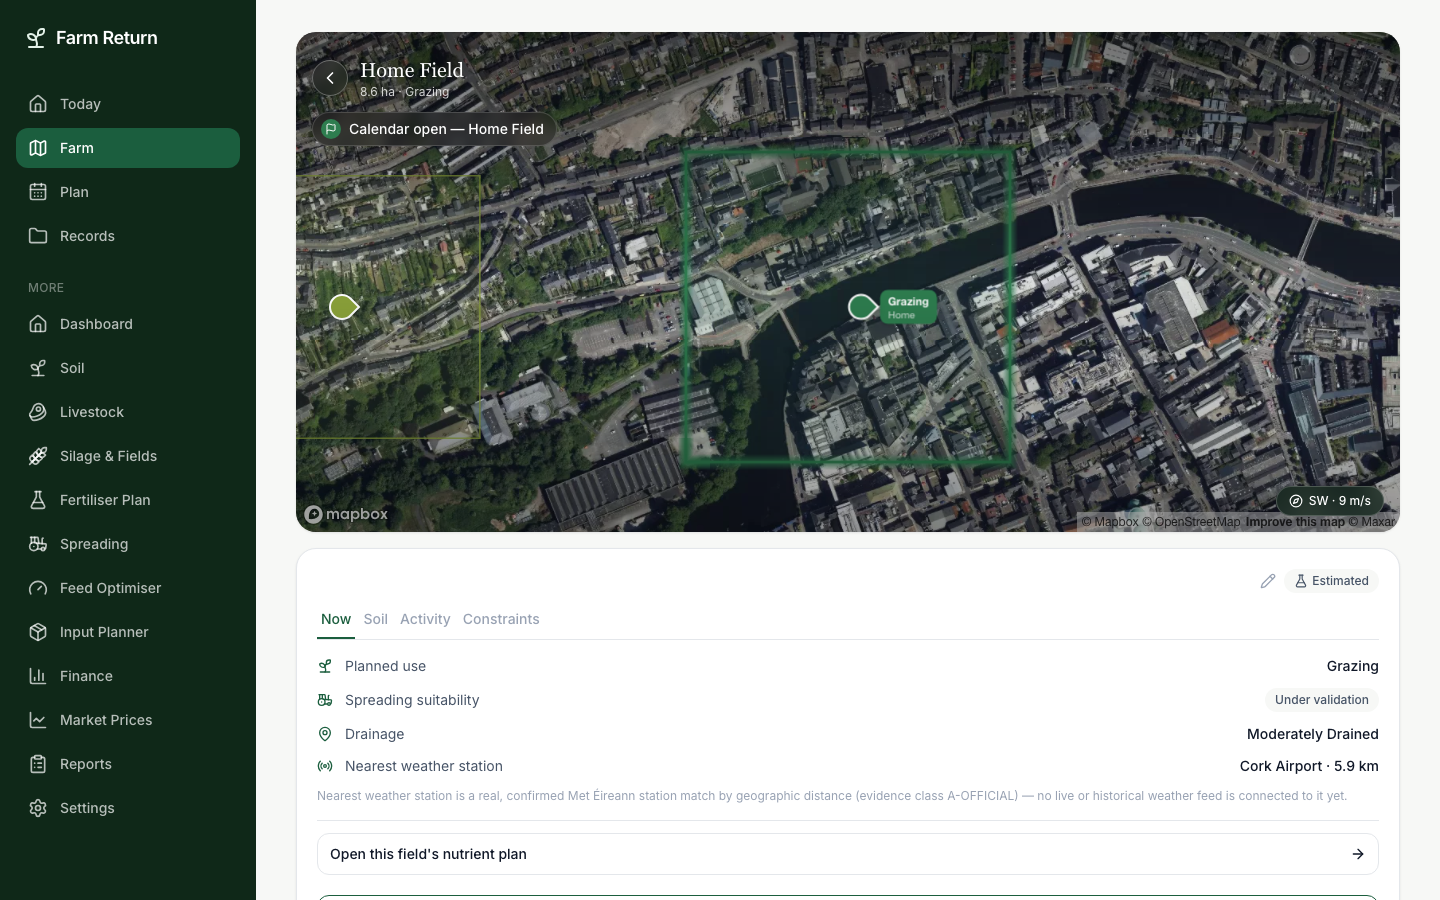
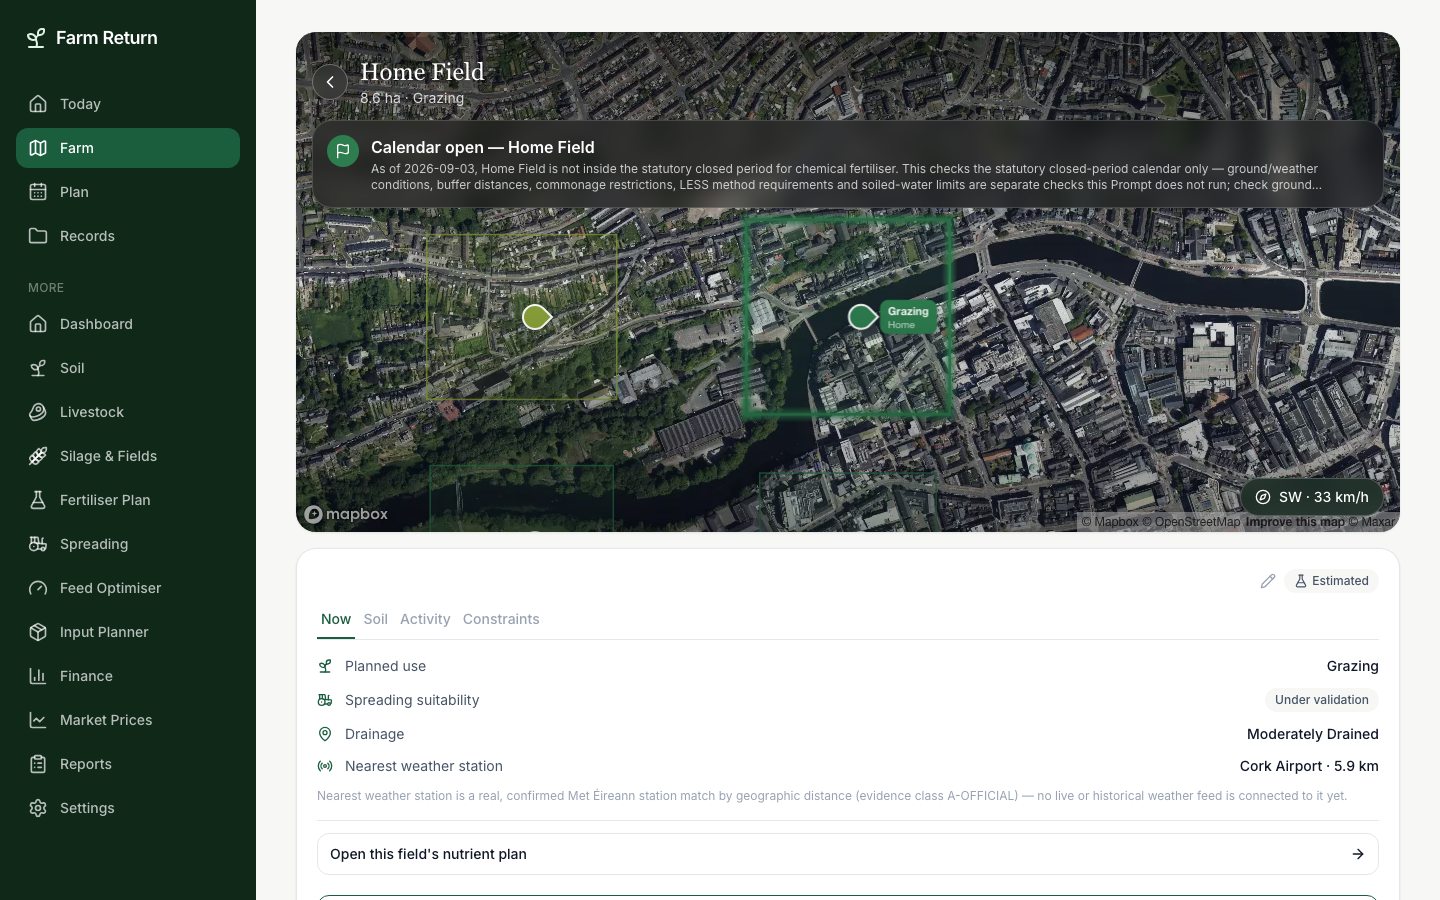
Strict Visual Reproduction round 4: refine Field detail after round 3's structural fix
Round 4 scored 7.2/10 PARTIAL against image3.png (LOW drift), the
biggest single-round jump so far (6.2 -> 6.4 -> 7.2) and, unlike rounds
1-3, no finding contradicted a previous round's own fix — a genuine
convergence, not another oscillation, so this round refines rather than
restructures:

- MapHero gains `flyToMaxZoom` (default 18, unchanged for the only
  other caller — there is none yet besides Field detail): round 4,
  High, "no neighbouring-field pins are visible... the reference
  clearly establishes the selected field within a surrounding field
  network." Field detail now passes 15 plus wider camera padding, and
  real neighbouring fields are visible in both captures.
- The informational status line is now a substantial two-tier card
  (bold real Prompt title + its real description as a second line),
  not a single-line pill (round 4, High: "reduced to a small chip"
  vs. image3's "large, visually dominant status card").
- FieldWindChip: real wind speed now shown in km/h (1 m/s = 3.6 km/h,
  a standard unit conversion of the same real observation, not a new
  domain calculation) instead of m/s, and the chip enlarged — round 4,
  Low: image3's own reference chip literally reads "SW · 12 km/h", "a
  more legible map-side fact" than a compact m/s pill.
- Header title/area text enlarged (round 4, Low: "notably smaller and
  tighter than the reference's prominent... field identity").

Not addressed this round (Medium findings, judged lower-value relative
[…]

Changed region(s): [[0.1875, 0.0311, 1.0, 0.5911]]

diff --git a/src/app/(app)/fields/page.tsx b/src/app/(app)/fields/page.tsx
@@ -330,7 +330,8 @@ function FieldDetailView({
           selectedFieldId={field.id}
           onSelectField={onSelectField}
           flyToSelection
-          flyToPadding={{ top: 120, bottom: 70, left: 70, right: 70 }}
+          flyToPadding={{ top: 130, bottom: 60, left: 90, right: 90 }}
+          flyToMaxZoom={15}
           glowSelection
           compactNeighbourLabels
           center={field.centroid}
@@ -357,28 +358,35 @@ function FieldDetailView({
                   <ChevronLeft className="size-5" />
                 </button>
                 <div className="min-w-0 flex-1">
-                  <h1 className="truncate font-display text-xl text-white drop-shadow-sm">{field.name}</h1>
-                  <p className="text-xs text-white/80">
+                  <h1 className="truncate font-display text-2xl text-white drop-shadow-sm">{field.name}</h1>
+                  <p className="text-sm text-white/80">
                     {formatHa(field.areaHa)}
                     {field.plannedUse ? ` · ${landUseLabel(field.plannedUse.value)}` : ""}
                   </p>
                 </div>
               </div>
 
-              {/* Informational status line — image3's own "Ready for
-                  fertiliser" card is a fact, not a button; the button
-                  lives in its own persistent control below the panel. */}
+              {/* Informational status card — Codex audit round 4: a
+                  single-line pill read as too minor next to image3's own
+                  "large, visually dominant" two-tier card. A bold
+                  headline (the real Prompt's title) plus its real
+                  description as a second line, matching that two-tier
+                  shape without inventing the reference's own unsupported
+                  time-of-day detail. */}
               {leadingPrompt ? (
-                <div className="flex items-center gap-2 self-start rounded-full border border-white/15 bg-black/30 py-1.5 pl-2 pr-3 backdrop-blur-sm">
+                <div className="flex items-start gap-3 self-start rounded-fr-card border border-white/15 bg-black/35 p-3.5 backdrop-blur-md">
                   <span
-                    className="flex size-5 shrink-0 items-center justify-center rounded-full"
+                    className="flex size-8 shrink-0 items-center justify-center rounded-full"
                     style={{
                       backgroundColor: promptTone === "risk" ? "#C0362C" : promptTone === "attention" ? "#D98324" : "#2E7D4F",
                     }}
                   >
-                    <Flag className="size-3 text-white" />
+                    <Flag className="size-4 text-white" />
                   </span>
-                  <p className="truncate text-sm font-medium text-white">{leadingPrompt.title}</p>
+                  <div className="min-w-0">
+                    <p className="text-base font-semibold text-white">{leadingPrompt.title}</p>
+                    <p className="mt-0.5 line-clamp-2 text-xs text-white/75">{leadingPrompt.description}</p>
+                  </div>
                 </div>
               ) : null}
             </div>

diff --git a/src/components/farm/MapHero.tsx b/src/components/farm/MapHero.tsx
@@ -39,6 +39,7 @@ export function MapHero({
   plain = false,
   flyToSelection = false,
   flyToPadding,
+  flyToMaxZoom = 18,
   glowSelection = false,
   compactNeighbourLabels = false,
   userPosition = null,
@@ -81,6 +82,13 @@ export function MapHero({
    * centred in the space actually left clear, instead of a uniform
    * padding that visually crowds it toward one edge. */
   flyToPadding?: number | { top: number; bottom: number; left: number; right: number };
+  /** Cap on how far the `flyToSelection` camera fit will zoom in — Mapbox's
+   * own default cap (18) let a small field fill the frame so tightly that
+   * real neighbouring fields fell outside it (Codex audit round 4, Strict
+   * Visual Reproduction: "no neighbouring-field pins are visible... the
+   * reference clearly establishes the selected field within a surrounding
+   * field network"). Lower default keeps real neighbours in frame. */
+  flyToMaxZoom?: number;
   /** Real Mapbox `line-blur` glow on the selected field's boundary
    * (media/image3.png's own literal "Field detail" composition) —
    * opt-in, since Today's whole-farm overview doesn't want a glow. */
@@ -479,10 +487,10 @@ export function MapHero({
         [minLng, minLat],
         [maxLng, maxLat],
       ],
-      { padding: flyToPadding ?? 80, maxZoom: 18, duration: 600 },
+      { padding: flyToPadding ?? 80, maxZoom: flyToMaxZoom, duration: 600 },
     );
     // eslint-disable-next-line react-hooks/exhaustive-deps -- mappedFields is derived fresh every render from the fields prop; keying on selectedFieldId (and the map/flyToSelection refs) is what actually determines whether this should re-fly, not a new array identity for the same real field set.
-  }, [selectedFieldId, flyToSelection]);
+  }, [selectedFieldId, flyToSelection, flyToMaxZoom]);
 
   // Real "you are here" dot (media/image2.png's own literal composition)
   // — a genuine one-shot browser geolocation fix, kept in its own effect

diff --git a/src/components/farm/FieldWindChip.tsx b/src/components/farm/FieldWindChip.tsx
@@ -46,10 +46,17 @@ export function FieldWindChip({ centroid }: { centroid: [number, number] }) {
     return null;
   }
 
+  // Codex audit round 4 (Strict Visual Reproduction): image3's own wind
+  // fact reads "SW · 12 km/h", "a more legible map-side fact" than a
+  // small m/s pill. km/h is a standard unit conversion of the same real
+  // observed speed (1 m/s = 3.6 km/h) — not a new measurement or a
+  // domain calculation requiring its own version/evidence record.
+  const windKmh = latest.windSpeedMps * 3.6;
+
   return (
-    <span className="flex items-center gap-1.5 rounded-full border border-white/20 bg-fr-green-900/55 px-3 py-1.5 text-xs font-medium text-white backdrop-blur-md">
-      <Compass className="size-3.5" aria-hidden="true" />
-      {formatWindDirection(latest.windDirectionDeg)} · {formatNumber(latest.windSpeedMps, 0)} m/s
+    <span className="flex items-center gap-2 rounded-full border border-white/20 bg-fr-green-900/55 px-3.5 py-2 text-sm font-medium text-white backdrop-blur-md">
+      <Compass className="size-4" aria-hidden="true" />
+      {formatWindDirection(latest.windDirectionDeg)} · {formatNumber(windKmh, 0)} km/h
     </span>
   );
 }
